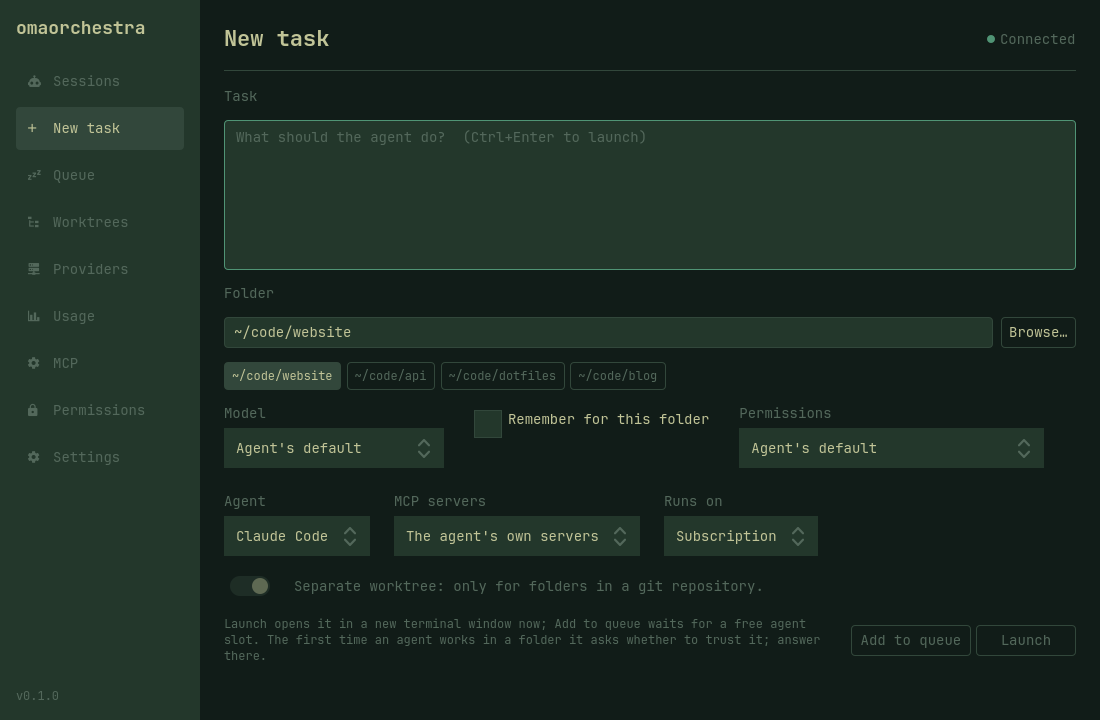
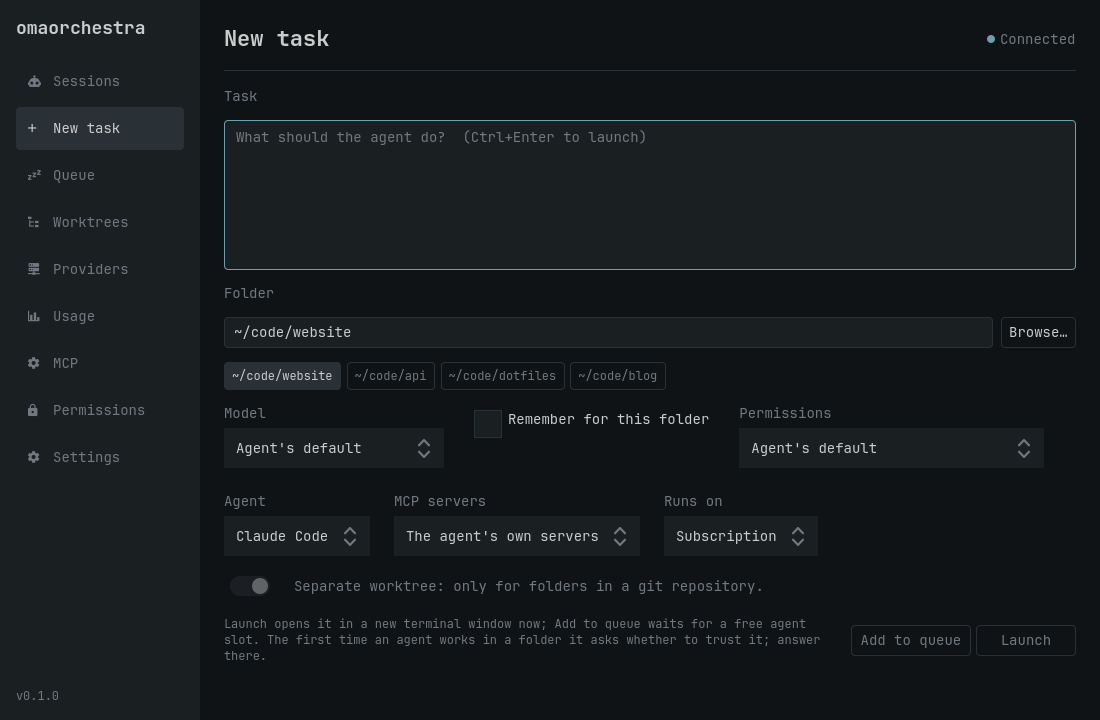
Screenshots in the app's neutral dark palette
scripts/screenshots no longer copies this machine's Omarchy theme: it
renders with the app's built-in palette, or a stock Omarchy theme with
--theme.

diff --git a/docs/development.md b/docs/development.md
@@ -62,8 +62,9 @@ env -i PATH=/usr/bin:/bin HOME=$(mktemp -d) LANG=C.UTF-8 /usr/bin/python3 -m uni
 
 `scripts/screenshots` renders the README's screenshots into
 `docs/screenshots/`: the app, offscreen, against a throwaway daemon holding
-made-up sessions, in the current Omarchy theme. Nothing from your own
-sessions, folders or keys appears in them.
+made-up sessions, in the app's built-in neutral dark palette
+(`--theme <name>` uses a stock Omarchy theme instead). Nothing from your own
+sessions, folders, keys or theme appears in them.
 
 ## Releasing
 
